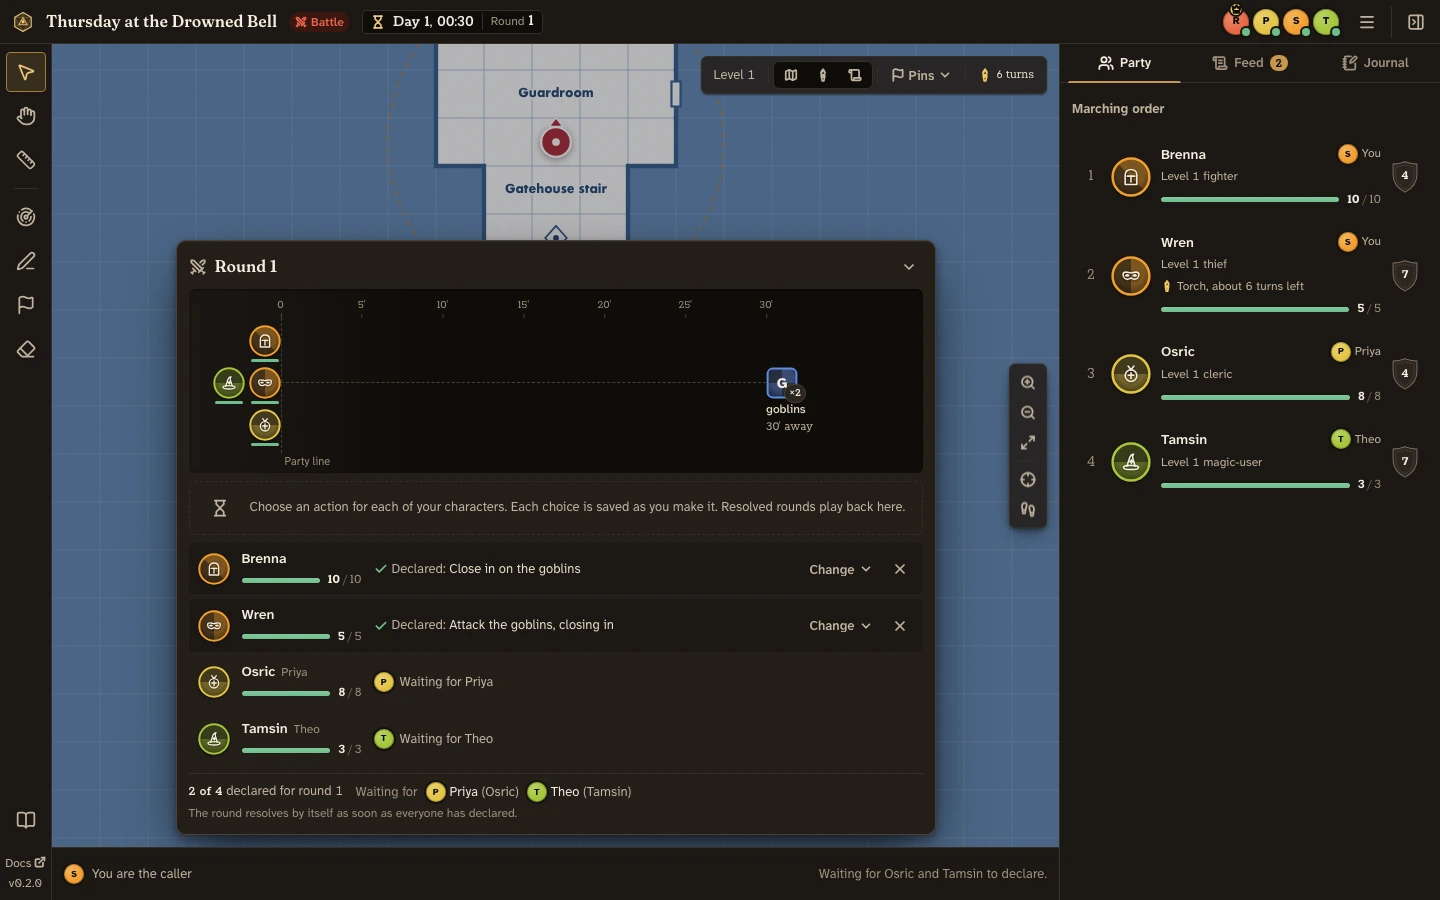
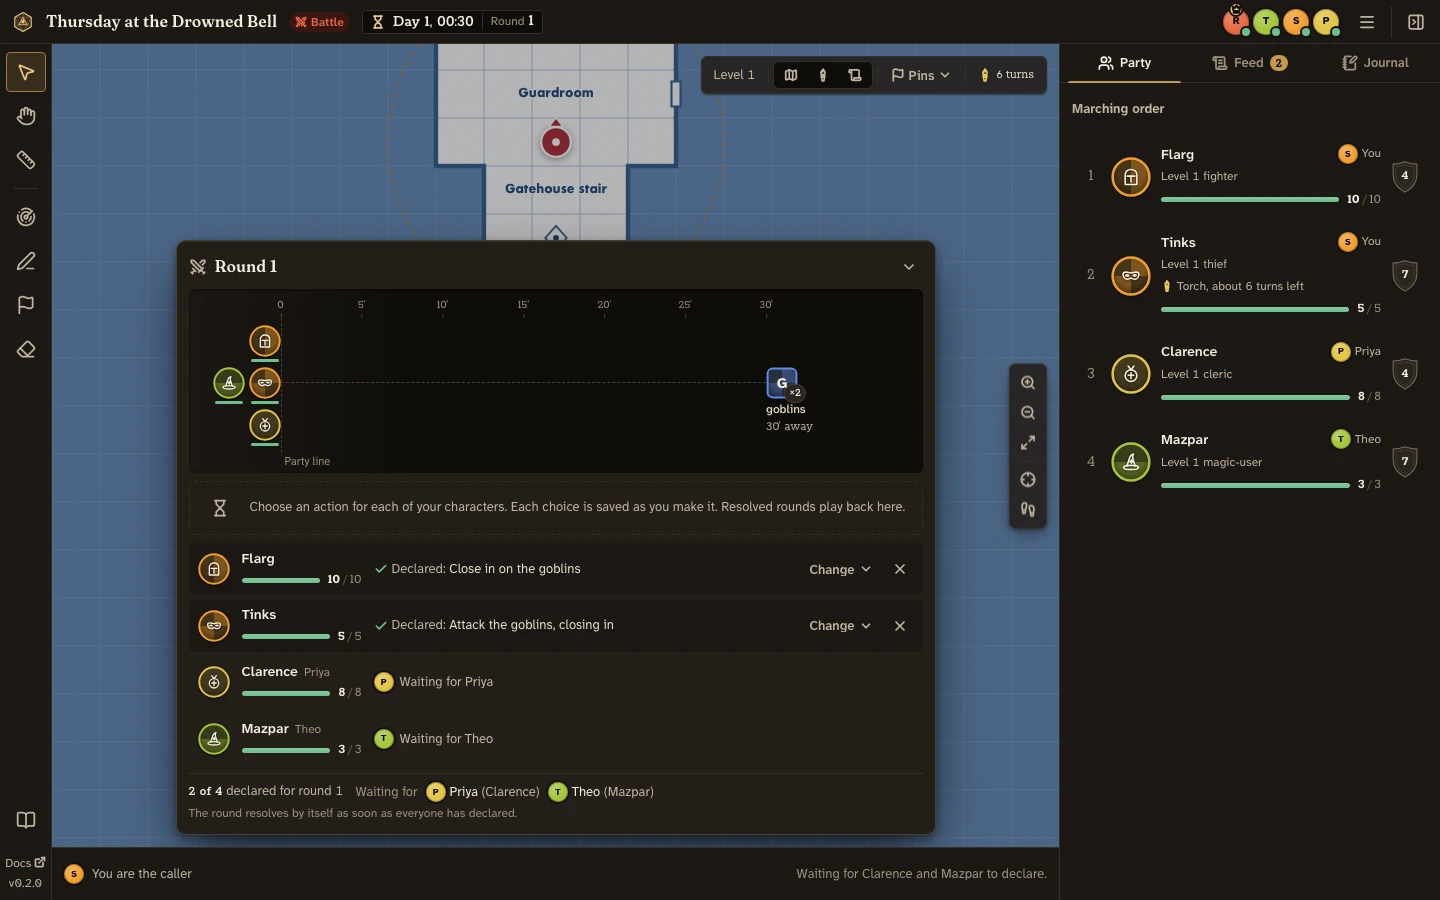
Use the sample party names in the doc screenshots
The capture script's cast (Brenna, Wren, Osric, Tamsin) predated the 0.2.0 rename of the e2e and /kit sample parties, so the documentation screenshots showed names the rest of the project no longer uses. Rename the cast to the class-matched sample names: Flarg the fighter, Tinks the thief, Clarence the cleric, and Mazpar the magic-user, update the locators and feed lines that match on those names, and rerun the script so the images show them.

Generated by Mistral Vibe.

diff --git a/docs/changelog.md b/docs/changelog.md
@@ -40,7 +40,7 @@ This release needs a `bxapi` that has `POST /v1/ability-rolls/{roll_id}/preview`
 - **Replay with reduced motion (`@bxvtt/web`):** **Replay** between rounds did nothing when reduced motion was on. It now starts paused, and the viewer steps through the round.
 - **Explore action bar reasons (`@bxvtt/web`):** Search, Listen, Light, and Rest never showed why they were unavailable, because the reason went to a tooltip on a natively disabled button. They now stay focusable and show it.
 - **Repeated death line in playback (`@bxvtt/web`):** A member who gained the dead condition and died in the same round appeared as two identical beats.
-- **Documentation screenshot script (`docs/images/capture.mjs`):** The regeneration script waited on control labels that the 0.2.0 copy overhaul renamed, so it stopped at the lobby step and most images in `docs/images/` went stale. It now uses the current labels, its default `BXAPI_URL` points at the development bxapi on 8651, and every screenshot is regenerated. ([#33](https://github.com/mmacy/bxvtt/pull/33))
+- **Documentation screenshot script (`docs/images/capture.mjs`):** The regeneration script waited on control labels that the 0.2.0 copy overhaul renamed, so it stopped at the lobby step and most images in `docs/images/` went stale. It now uses the current labels, its default `BXAPI_URL` points at the development bxapi on 8651, and every screenshot is regenerated with the same class-matched sample party names as the e2e tests and the `/kit` gallery (Flarg, Tinks, Clarence, and Mazpar). ([#33](https://github.com/mmacy/bxvtt/pull/33))
 
 ## [0.2.0] - 2026-11-22
 
